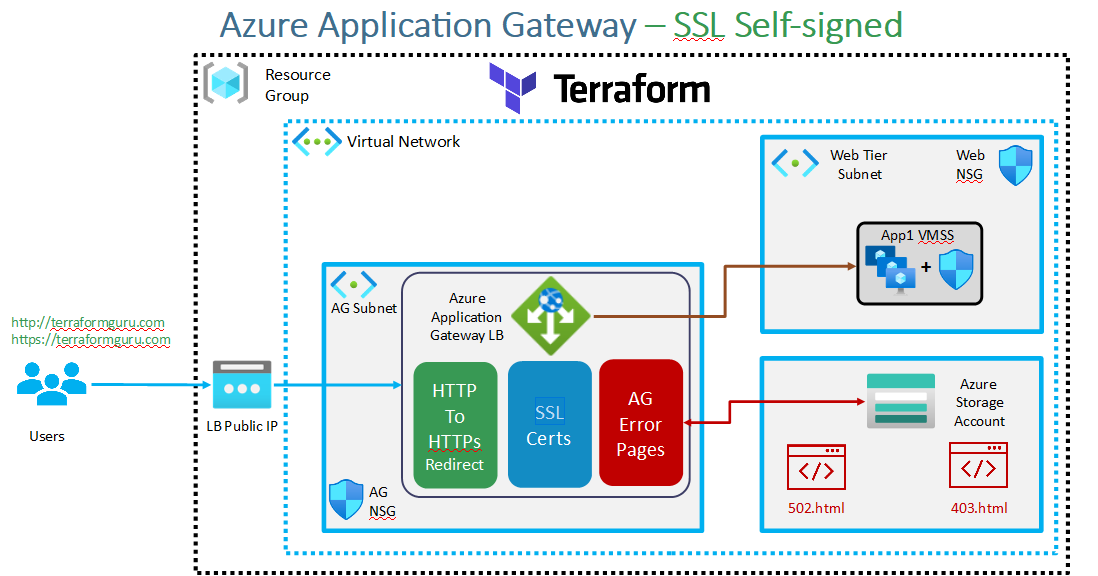
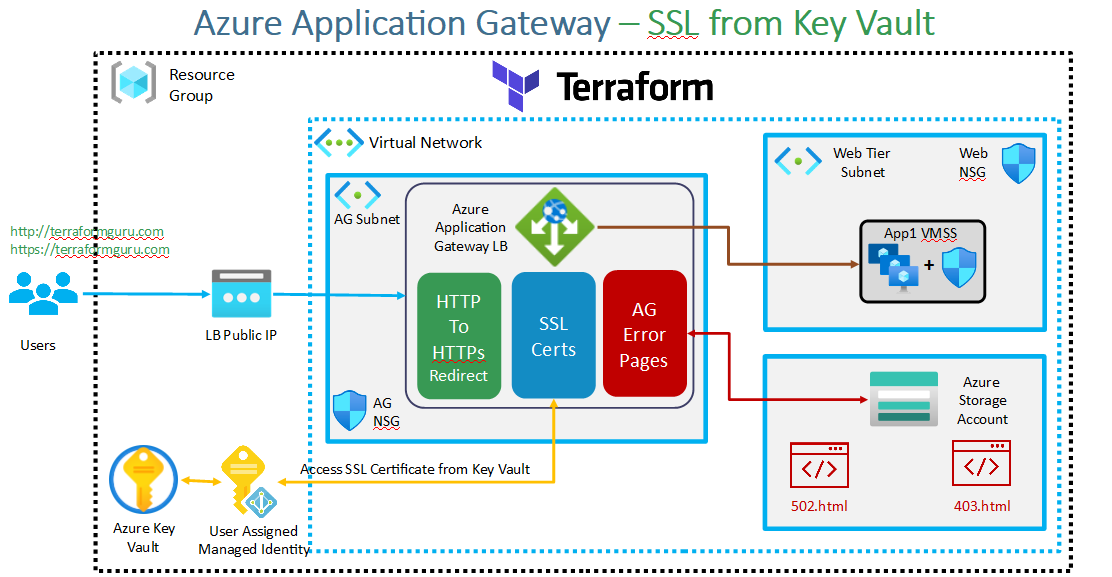
key vault

diff --git a/21-Azure-Application-Gateway-SSL-SelfSigned-KeyVault/Readme.md b/21-Azure-Application-Gateway-SSL-SelfSigned-KeyVault/Readme.md
@@ -1,14 +1,18 @@
 ---
-title: Azure Application Gateway SSL using Terraform
-description: Create Azure Application Gateway SSL Self-Signed using Terraform
+title: Azure Application Gateway SSL with Key Vault
+description: Create Azure Application Gateway SSL Self-Signed with Key Vault using Terraform
 ---
-##  Introduction
-0. Leverage `Section-27-Azure-Application-Gateway-Basics` and build on top of them all the below features
-1. HTTP 80 Listener
-2. HTTP 443 Listener
-3. HTTP to HTTPS Redirect
-4. Custom Error Pages for Application Gateway hosted on Azure Storage Account Static Website
-5. Self Signed SSL Certificate - 20 years validity
+## Introduction
+### Important Order of steps to achieve this use-case
+1. Create [User-assigned Managed Identity](https://docs.microsoft.com/en-us/azure/active-directory/managed-identities-azure-resources/overview#how-can-i-use-managed-identities-for-azure-resources)
+2. Assign the Managed Identity to Application Gateway (identity block in ag)
+3. Add a [User-assigned Managed Identity](https://docs.microsoft.com/en-us/azure/active-directory/managed-identities-azure-resources/overview#how-can-i-use-managed-identities-for-azure-resources) to your Key Vault access policy (Resource: azurerm_key_vault_access_policy)
+4. Import the SSL certificate into Key Vault and store the certificate SID in a variable
+5. Update 443 Listner in AG to access SSL cert from Key Vault
+### Important Note
+- This approach helps us for real SSL Certificates (Not self-signed) which are managed externally means generating CSR, submit to CA and get Certificate. Those can be imported to Key Vault and referenced in Azure Application Gateway using this approach. 
+- Instead of the `httpd.pfx` currently which contains self-signed certificate, in real ssl certificate case `httpd.pfx` will have real ssl certificate and private key, rest all as-is. 
+
 
 
 
